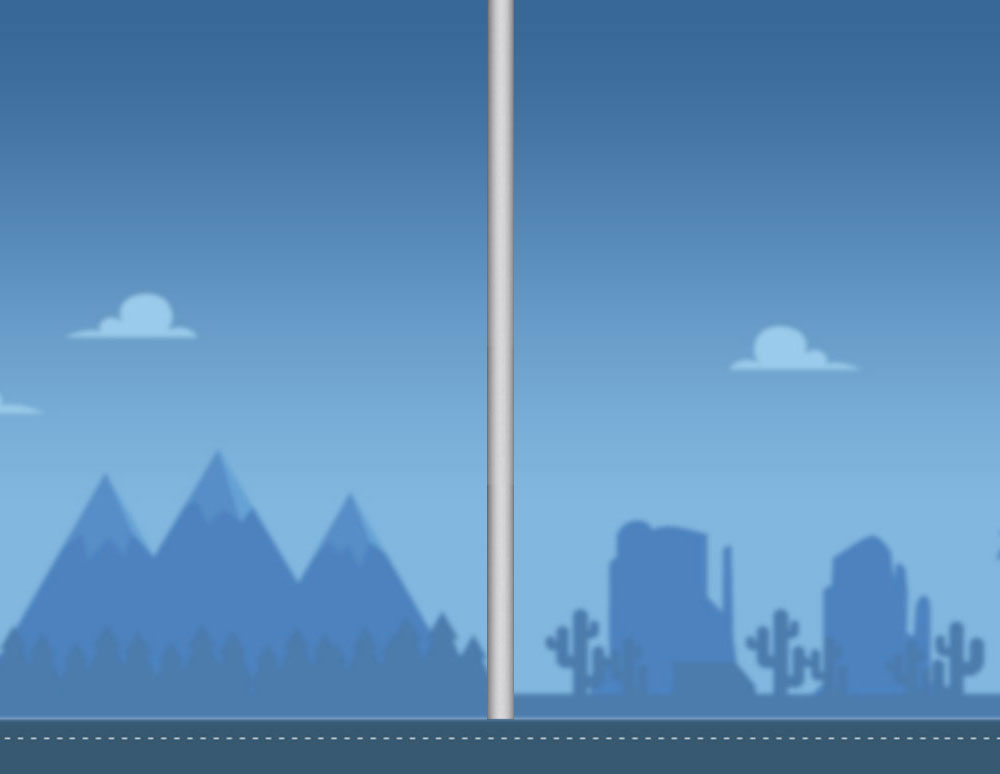
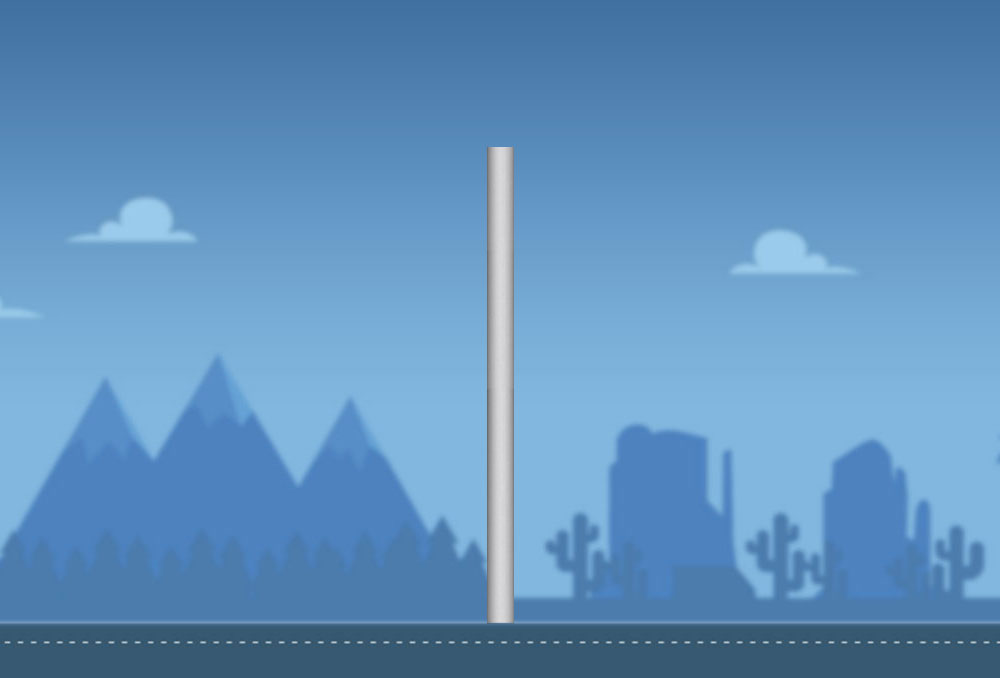
updates and reading log

diff --git a/summer-reading/activities/index.html b/summer-reading/activities/index.html
@@ -298,7 +298,7 @@ height="0" width="0" style="display:none;visibility:hidden"></iframe>
       <div class="button-wrapper">
         <div class="button-item"><a href="https://douglascountylibraries.evanced.info/signup/list?nomobile=1&kw=Summer+Reading+Program&lib=all&nd=365" target="_blank" class="margin-15 text-uppercase btn btn-primary btn-lg">Summer Reading Events</a></div>
         <div class="button-item"><a href="#" target="_blank" class="margin-15 text-uppercase btn btn-primary btn-lg">Take our Quiz</a></div>
-        <div class="button-item"><a href="#" target="_blank" class="margin-15 text-uppercase btn btn-primary btn-lg">Print a Reading Log</a></div>
+        <div class="button-item"><a href="../summer-reading-log.pdf" target="_blank" class="margin-15 text-uppercase btn btn-primary btn-lg">Print a Reading Log</a></div>
       </div>
     </div>
   </div>
@@ -307,7 +307,7 @@ height="0" width="0" style="display:none;visibility:hidden"></iframe>
       <h1 class="white text-uppercase">Fun Downloads:</h1>
       <h2 class="white">Jokes PDF</h2>
       <h2 class="white">Postcard</h2>
-      <h2 class="white">School Passport</h2>
+      <h2 class="white"><a class="white" href="https://drive.google.com/file/d/15P7fgVRytHK4yM7QruKMY9_TsscUS9aX/view" target="_blank">School Passport</a></h2>
       <h2 class="white"><a class="white" href="summer-reading-rapids-voucher.pdf" target="_blank">Rapids Voucher</a></h2>
     </div>
   </div>

diff --git a/new.html b/new.html
@@ -117,7 +117,7 @@ e.async=true;var t=document.getElementsByTagName("script")[0];t.parentNode.inser
 }
 .sign-two {
 	background: transparent url("pole.jpg") bottom center no-repeat;
-	height: 550px;
+	height: 620px;
 	padding: 90px 155px 0 135px;
 	margin-top: 10px;
 }
